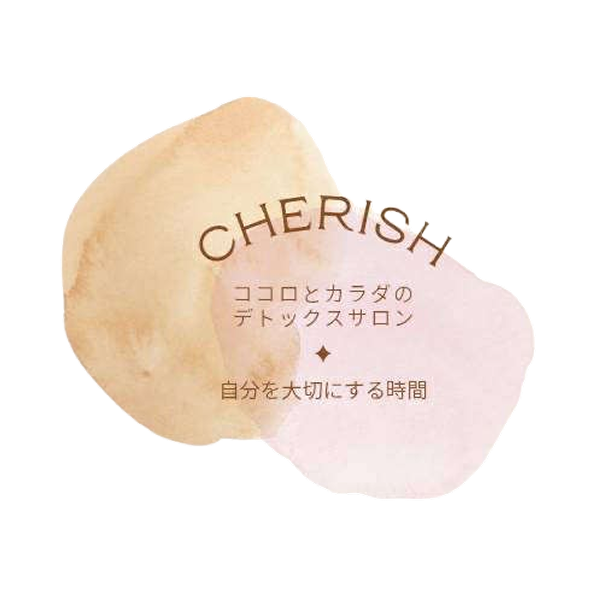
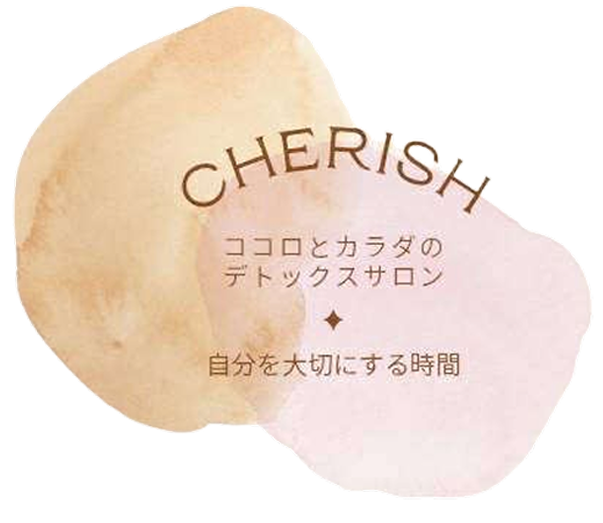
responsive fix

diff --git a/public/css/style.css b/public/css/style.css
@@ -173,8 +173,15 @@ font-family: "Zen Kaku Gothic New", sans-serif;
     background-image: url('../images/curve-bg.png');
     background-repeat: no-repeat;
     background-size: cover;
-    background-position: center; /* keep image centered */
+    background-position: center;
+
+    /* Center content */
+    display: flex;
+    justify-content: center; /* horizontal center */
+    align-items: center;     /* vertical center */
+    text-align: center;      /* ensure text stays centered */
 }
+
 .gradient-bar {
   width: 40px;
   height: -webkit-fill-available;

diff --git a/public/css/mobile-style.css b/public/css/mobile-style.css
@@ -21,7 +21,8 @@
     font-size: 27px;
 }
 .seen-section {
-    min-height: 400px;
+   min-height: 500px;
+    margin-top: -5.5em;
 
 }
 .map{
@@ -175,7 +176,7 @@ background-color: #8e8e8e;
 @media (min-width: 1400px) {
 .seen-section {
     min-height: 965px;
-    margin-top: -8em;
+    margin-top: -10em;
 
 }
 

diff --git a/resources/views/welcome.blade.php b/resources/views/welcome.blade.php
@@ -414,17 +414,19 @@
             </div>
          </div>
       </div>
-      <div class="container-fluid seen-section py-5  ">
-         <div class="container py-5">
-            <div class="row align-items-center py-5">
-               <div class="col-lg-9 mx-auto text-center text-main">
-                  <h2 class="font-48 fw-bold pb-3 jost-font">メディア掲載</h2>
-                  <p class="font-36 kiwi-maru-font  fw-normal">"常に高い品質と心のこもったサービス、そして洗練されたスタイルが魅力の場所"
-                  </p>
-               </div>
-            </div>
+      <div class="container-fluid seen-section">
+   <div class="container">
+      <div class="row align-items-center">
+         <div class="col-lg-9 mx-auto text-main">
+            <h2 class="font-48 fw-bold pb-4 jost-font">メディア掲載</h2>
+            <p class="font-30 kiwi-maru-font fw-normal lh-lg">
+               "常に高い品質と心のこもったサービス、そして洗練されたスタイルが魅力の場所"
+            </p>
          </div>
       </div>
+   </div>
+</div>
+
       <div class="container-fluid follow-section py-5 " id="contact">
          <div class="container  ">
             <div class="row align-items-center ">
@@ -553,7 +555,11 @@
          <div class="container py-lg-5  py-sm-5">
             <div class="row align-items-center ">
                <div class="col-12 jost-font text-main text-center mx-auto">
-                  <h2 class="font-40 fw-bold">Testimonial</h2>
+                  <h2 class="font-40 fw-bold"> 
+
+お客様の声
+
+</h2>
                   <div class="row g-4">
                      <div class="col-sm-12">
                         <div id="customers-testimonials" class="owl-carousel" role="region"
@@ -592,9 +598,9 @@
             <div class="col-lg-4 col-sm-4">
                <img src="{{ asset('/images/clock.png') }}" class="w-auto mx-auto" alt="CHERISH">
                <h4 class="font-20 fw-bold text-main text-uppercase ls-2  py-3">営業時間</h4>
-               <p class="fw-normal jost-font font-16 pb-1 text-a"> Mon to Fri: 7:30 am — 1:00 am</p>
-               <p class=" fw-normal jost-font font-16 pb-1 text-a">Sat: 9:00 am — 1:00 am</p>
-               <p class=" fw-normal jost-font font-16 pb-1 text-a">Sun: 9:00 am — 11:30 pm</p>
+               <p class="fw-normal jost-font font-16 pb-1 text-a"> 10時半～18時半最終入店</p>
+               <p class=" fw-normal jost-font font-16 pb-1 text-a"> 定休日：月曜日、木曜日</p>
+               
             </div>
             <div class="col-lg-4 col-sm-4">
                <img src="{{ asset('/images/location.png') }}" class="w-auto mx-auto" alt="CHERISH">
@@ -606,8 +612,8 @@
          </div>
       </div>
       <footer class="footer-section py-5 bg-second">
-         <div class="container pt-lg-3">
-            <div class="row gy-4 align-items-start align-items-lg-center justify-content-between">
+         <div class="container">
+            <div class="row gy-4 justify-content-between">
                <!-- Brand -->
                <div class="col-6 col-sm-4 col-lg-3">
                   <a href="{{ route('home') }}" title="CHERISH | Home Page" class="d-inline-block">
@@ -617,7 +623,7 @@
                </div>
                <!-- Quick Links -->
                <nav class="col-6 col-sm-5 col-lg-4" aria-label="Quick links">
-                  <h4 class="h6 fw-bold text-main text-uppercase pb-3 m-0">リンク</h4>
+                  <h4 class="h6 fw-bold text-main text-uppercase pt-lg-0 pt-sm-0 pt-4 pb-3 m-0">リンク</h4>
                   <ul class="list-unstyled m-0 p-0">
   <li class="pb-2">
     <i class="fa-solid fa-right-long me-2"></i>
@@ -645,21 +651,22 @@
                <!-- Contact / Social -->
                <div class="col-12 col-sm-12 col-lg-4 text-start">
 
-                  <h3 class="h6 fw-bold text-main text-uppercase pt-4 pb-3 m-0">お支払方法</h3>
+                  <h3 class="h6 fw-bold text-main text-uppercase pt-lg-0 pt-sm-0 pt-4 pb-3 m-0">お支払方法</h3>
                   <div class="row g-3">
                      <!-- Card Payment -->
-                     <div class="col-lg-4 col-sm-3 col-4">
-                        <div class=" text-center">
-                           <i class="fa-solid fa-credit-card fa-2x text-main mb-3"></i>
-                           <h5 class="mb-0  fw-normal jost-font font-16">VISA/JCB/PayPay</h5>
-                        </div>
+                     <div class="col-lg-6 col-sm-5 col-4">
+                         
+                    
+                            <img src="{{ asset('/images/visa.png') }}" class="img-fluid" alt="CHERISH logo" >
+
+ 
                      </div>
                      <!-- Cash Payment -->
-                   <div class="col-lg-4 col-sm-3 col-4">
-                        <div class=" text-center">
-                           <i class="fa-solid fa-money-bill-wave fa-2x text-main mb-3"></i>
-                           <h5 class="mb-0  fw-normal jost-font font-16">現金</h5>
-                        </div>
+                   <div class="col-lg-5 col-sm-4 col-4">
+                         
+                           <i class="fa-solid fa-money-bill-wave fa-2x text-main"></i>
+                           <h5 class="mb-0  fw-bolder jost-font font-12">現金</h5>
+                       
                      </div>
                   </div>
                </div>
@@ -672,9 +679,10 @@
             <div class="row">
                <div class="col-xs-12">
                   <p class="company-name">
-                     Copyright © <span id="year"></span> CHERISH |
+                     Copyright © 2026 CHERISH 
+                     {{-- |
                      Design by <a href="https://onemaxweb.com" target="_blank" class="text-dark fw-bolder">
-                     OneMaxWeb Solution
+                     OneMaxWeb Solution --}}
                      </a>
                   </p>
                </div>

diff --git a/resources/views/dashboard.blade.php b/resources/views/dashboard.blade.php
@@ -14,7 +14,7 @@
                <div class="icon-wrapper mb-3">
                   <i class="bi bi-briefcase-fill fs-1"></i>
                </div>
-               <h2 class=" pb-4 fw-bold">Service</h2>
+               <h2 class=" pb-4 fw-bold">サービス追加</h2>
 
                <a href="{{ route('services.index') }}" class="btn btn-primary w-100">View</a>
             </div>
@@ -27,7 +27,7 @@
                <div class="icon-wrapper mb-3">
                   <i class="bi bi-people-fill fs-1"></i>
                </div>
-               <h2 class="pb-4  fw-bold">Testimonial</h2>
+               <h2 class="pb-4  fw-bold">お客様の声</h2>
                <a href="{{ route('testimonials.index') }}"  class="btn btn-success w-100">View</a>
             </div>
          </div>
